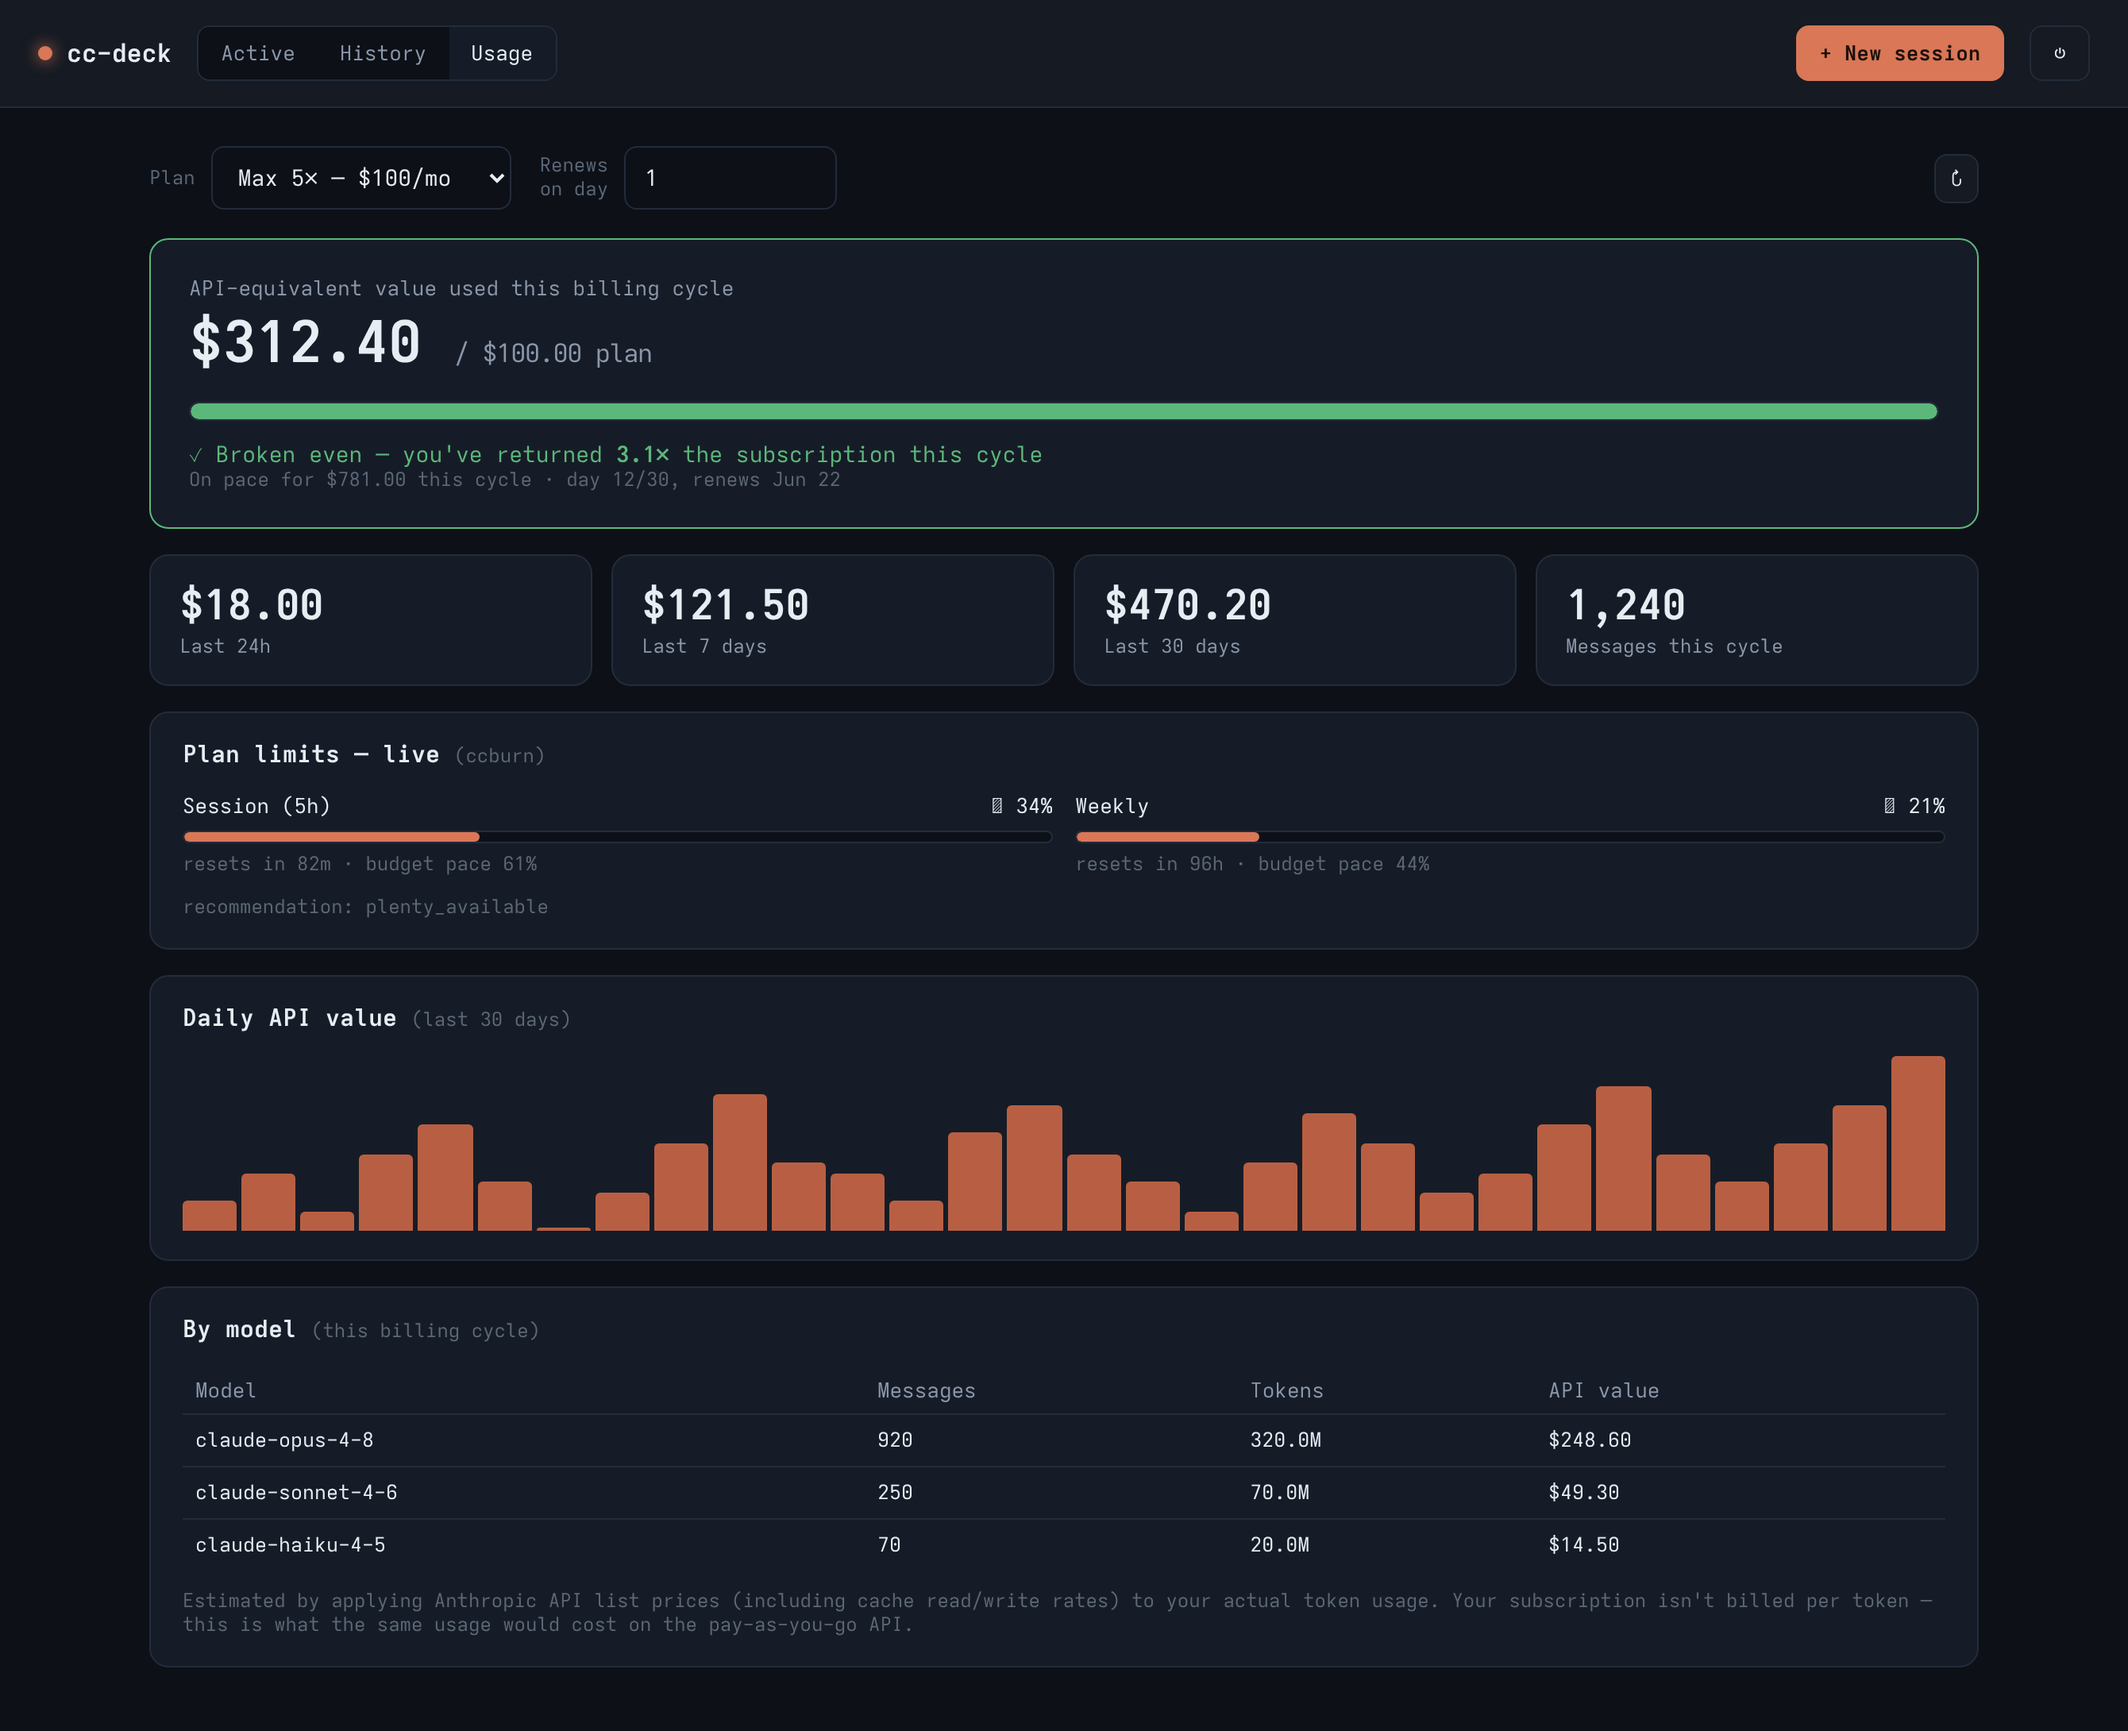
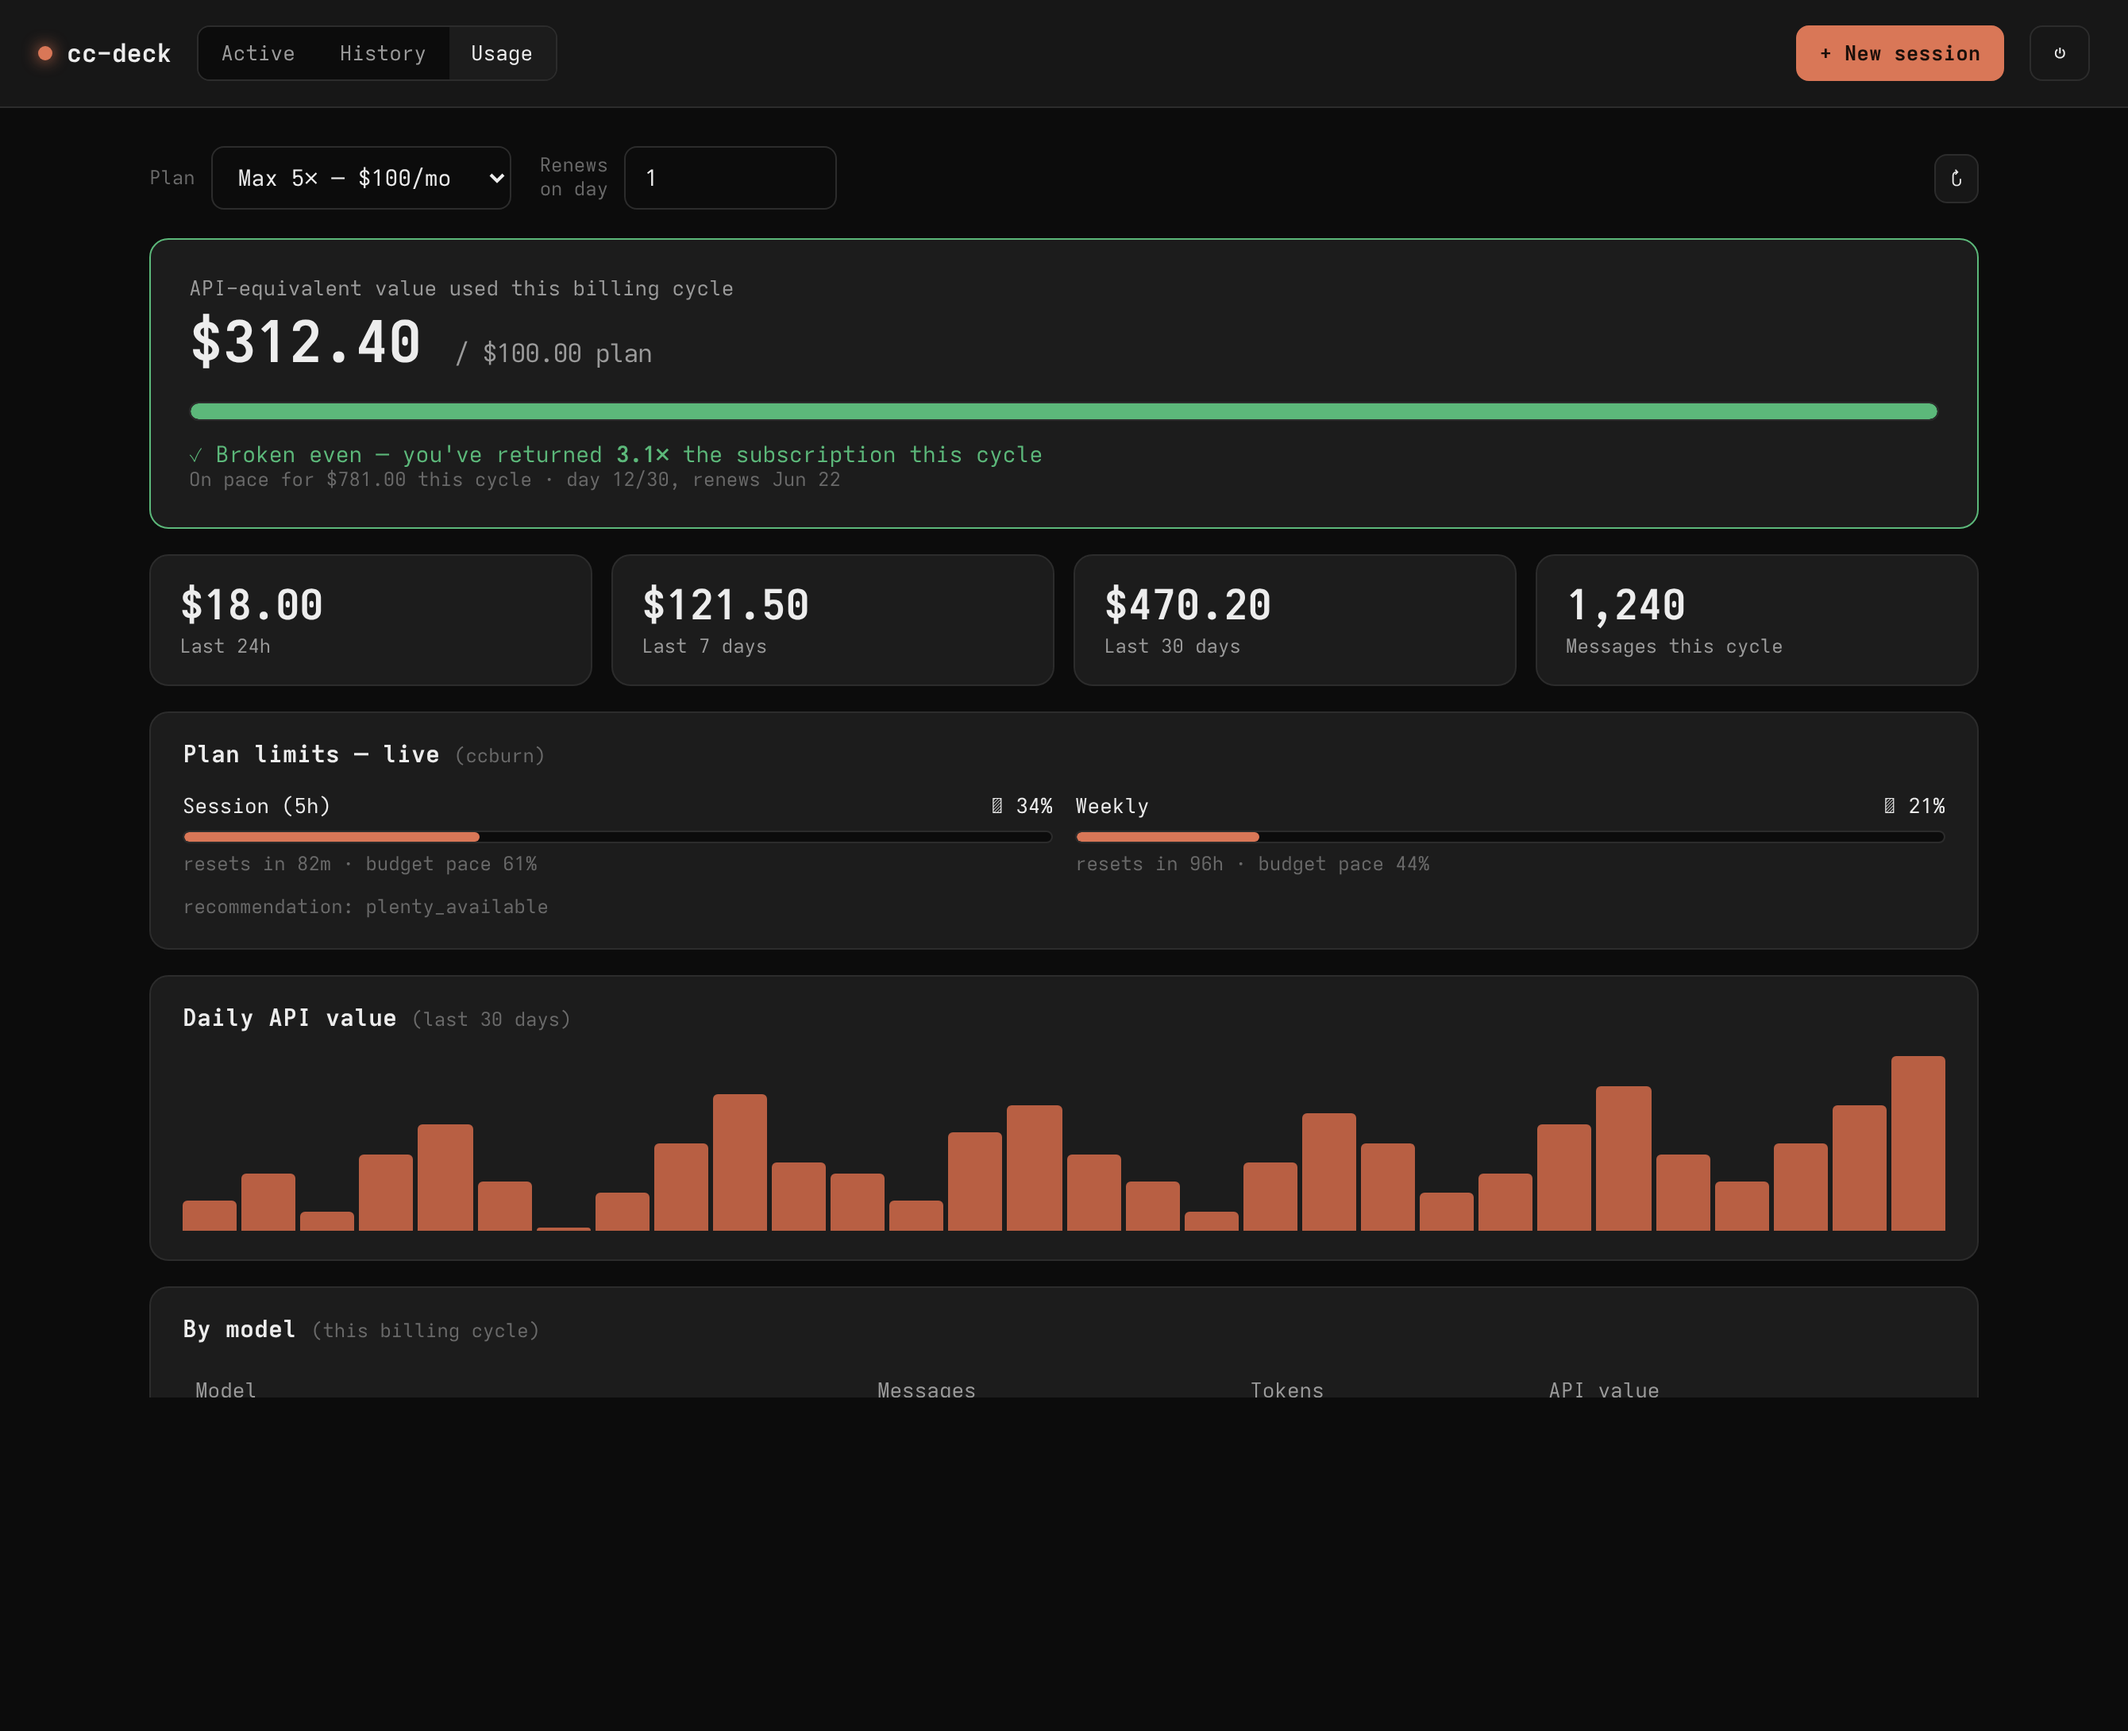
Recolor UI to neutral dark grays/black (drop the blue tint), keep orange
Replace the blue-tinted dark palette with neutral grays across the CSS variables,
terminal xterm theme, login page, and tmux status-bar colors. Accent orange and
status colors (green/blue/red) unchanged. Regenerated demo screenshots.

Changed region(s): [[0.0619, 0.7798, 0.9291, 0.967]]

diff --git a/public/login.css b/public/login.css
@@ -2,14 +2,14 @@
 * { box-sizing: border-box; }
 html, body { margin: 0; height: 100%; }
 body {
-  background: radial-gradient(1200px 600px at 50% -10%, #1a2230, #0d1017);
-  color: #e6edf3;
+  background: radial-gradient(1200px 600px at 50% -10%, #1c1c1c, #0c0c0c);
+  color: #ededed;
   font-family: -apple-system, BlinkMacSystemFont, 'Segoe UI', Inter, system-ui, sans-serif;
   display: flex; align-items: center; justify-content: center;
 }
 .login {
-  background: #151a23;
-  border: 1px solid #232c3a;
+  background: #171717;
+  border: 1px solid #2c2c2c;
   border-radius: 14px;
   padding: 32px;
   width: min(360px, 90vw);
@@ -18,9 +18,9 @@ body {
 }
 .brand { font-weight: 700; font-size: 20px; display: flex; align-items: center; gap: 10px; }
 .brand .dot { width: 10px; height: 10px; border-radius: 50%; background: var(--accent); box-shadow: 0 0 12px var(--accent); }
-.sub { margin: 0 0 6px; color: #8b98ab; font-size: 13px; }
+.sub { margin: 0 0 6px; color: #9b9b9b; font-size: 13px; }
 input {
-  background: #0d1017; border: 1px solid #232c3a; color: #e6edf3;
+  background: #0c0c0c; border: 1px solid #2c2c2c; color: #ededed;
   border-radius: 8px; padding: 12px 14px; font-size: 15px; width: 100%; font-family: inherit;
 }
 input:focus { outline: none; border-color: var(--accent); }

diff --git a/src/client/styles.css b/src/client/styles.css
@@ -1,12 +1,12 @@
 :root {
-  --bg: #0d1017;
-  --bg-elev: #151a23;
-  --bg-card: #161c27;
-  --border: #232c3a;
-  --border-hover: #34405a;
-  --text: #e6edf3;
-  --text-dim: #8b98ab;
-  --text-faint: #5c6877;
+  --bg: #0c0c0c;
+  --bg-elev: #171717;
+  --bg-card: #1c1c1c;
+  --border: #2c2c2c;
+  --border-hover: #3f3f3f;
+  --text: #ededed;
+  --text-dim: #9b9b9b;
+  --text-faint: #6a6a6a;
   --accent: #d97757;
   --accent-dim: #b85f43;
   --green: #5cb87a;
@@ -252,7 +252,7 @@ select:focus { outline: none; border-color: var(--accent); }
 .term-bar .status { font-size: 12px; color: var(--text-dim); white-space: nowrap; }
 .term-bar .status.connected { color: var(--green); }
 .term-bar .status.closed { color: #ff8d85; }
-#terminal { position: relative; flex: 1; min-height: 0; background: #0a0d12; }
+#terminal { position: relative; flex: 1; min-height: 0; background: #0a0a0a; }
 
 /* ---- terminal page layout + session sidebar ---- */
 #app-term { display: flex; height: 100vh; height: 100dvh; overflow: hidden; position: relative; }

diff --git a/src/client/terminal.js b/src/client/terminal.js
@@ -69,8 +69,8 @@ const TERM_OPTS = {
   fontFamily: "'JetBrains Mono','SF Mono','Fira Code',ui-monospace,monospace",
   fontSize: isMobile ? 12 : 13, lineHeight: 1.0, cursorBlink: true, scrollback: 10000, allowProposedApi: true,
   theme: {
-    background: '#0a0d12', foreground: '#e6edf3', cursor: '#d97757', selectionBackground: '#2a3344',
-    black: '#0a0d12', brightBlack: '#5c6877', red: '#ff8d85', brightRed: '#ff8d85',
+    background: '#0a0a0a', foreground: '#ededed', cursor: '#d97757', selectionBackground: '#3a3a3a',
+    black: '#0a0a0a', brightBlack: '#6a6a6a', red: '#ff8d85', brightRed: '#ff8d85',
     green: '#5cb87a', brightGreen: '#5cb87a', yellow: '#e0c060', brightYellow: '#e0c060',
     blue: '#6ea8fe', brightBlue: '#6ea8fe', magenta: '#c099ff', brightMagenta: '#c099ff',
     cyan: '#5fd3d3', brightCyan: '#5fd3d3', white: '#e6edf3', brightWhite: '#ffffff',

diff --git a/src/tmux.js b/src/tmux.js
@@ -41,8 +41,8 @@ export async function initServer() {
 
 // cc-deck color palette (kept in sync with src/client/styles.css).
 const C = {
-  barBg: '#151a23', dim: '#8b98ab', faint: '#5c6877', text: '#e6edf3',
-  accent: '#d97757', accentInk: '#1a0f0a', border: '#232c3a', borderHi: '#34405a',
+  barBg: '#171717', dim: '#9b9b9b', faint: '#6a6a6a', text: '#ededed',
+  accent: '#d97757', accentInk: '#1a0f0a', border: '#2c2c2c', borderHi: '#3f3f3f',
 };
 
 // Theme a session's tmux status bar / selection to match the webapp.

diff --git a/public/terminal.html b/public/terminal.html
@@ -6,7 +6,7 @@
   <title>cc-deck · terminal</title>
   <meta name="color-scheme" content="dark" />
   <link rel="stylesheet" href="/xterm.css" />
-  <style>html,body{margin:0;height:100%;background:#0a0d12;overflow:hidden}</style>
+  <style>html,body{margin:0;height:100%;background:#0a0a0a;overflow:hidden}</style>
 </head>
 <body>
   <script type="module" src="/terminal.js"></script>
